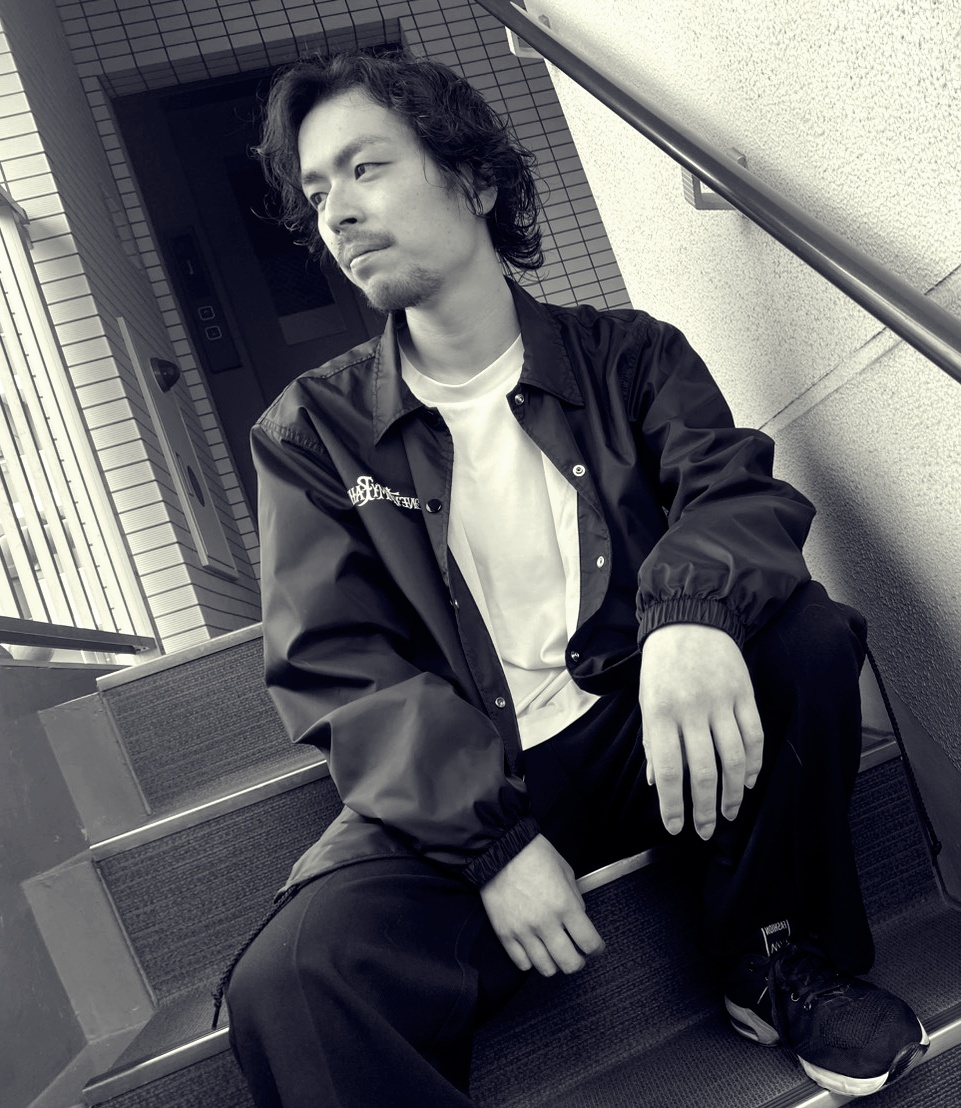
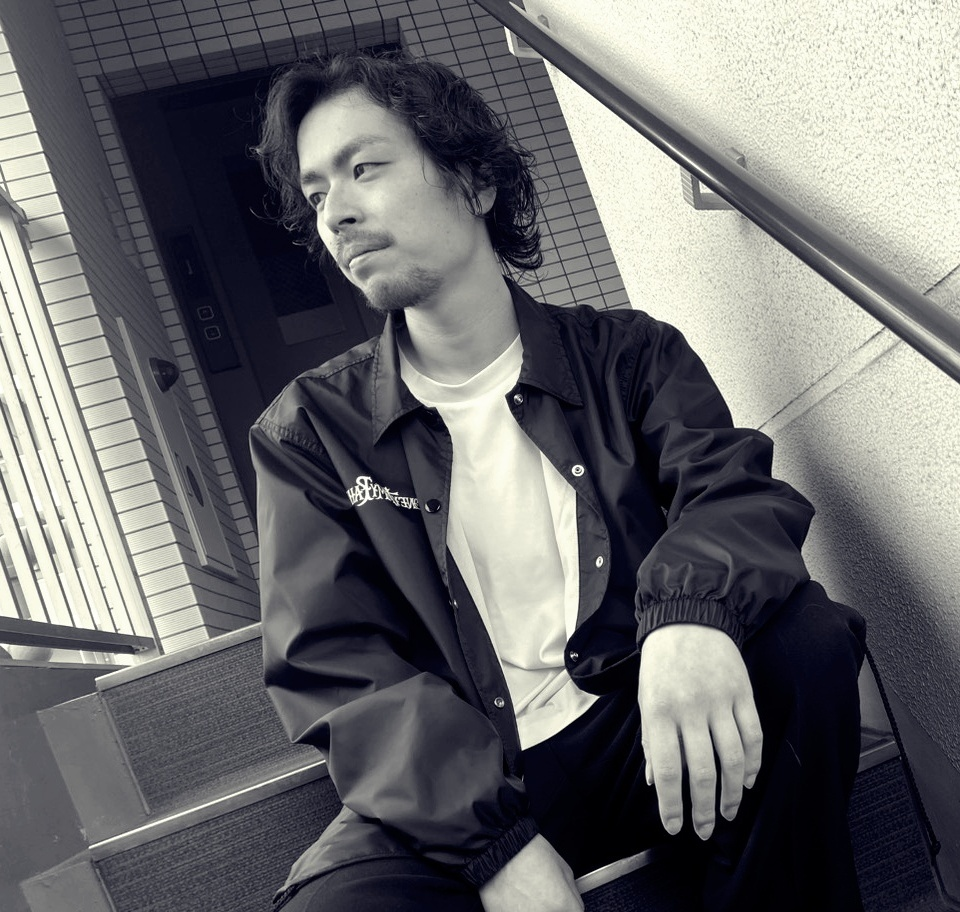
add: ジムLP追加

diff --git a/app/components/LpPortfolio.tsx b/app/components/LpPortfolio.tsx
@@ -21,6 +21,15 @@ const works = [
     url: "https://aurum-whey-n2k4dbxmz-tomozo011s-projects.vercel.app/",
     tags: ["LP制作", "高級感", "フィットネス"],
   },
+  {
+    id: "03",
+    title: "BLOOM PERSONAL TRAINING",
+    description:
+      "元プロトレーナーが運営する24時間対応パーソナルジムのLP。「続けられるから、変われる。」というキャッチコピーで継続性を訴求。完全個別対応・元プロ指導の強みを前面に打ち出し、無料体験への導線をシンプルに設計しました。",
+    image: "/sportsjim.png",
+    url: "https://sportsjim.vercel.app/",
+    tags: ["LP制作", "フィットネス", "パーソナルジム"],
+  },
 ];
 
 export default function LpPortfolio() {
